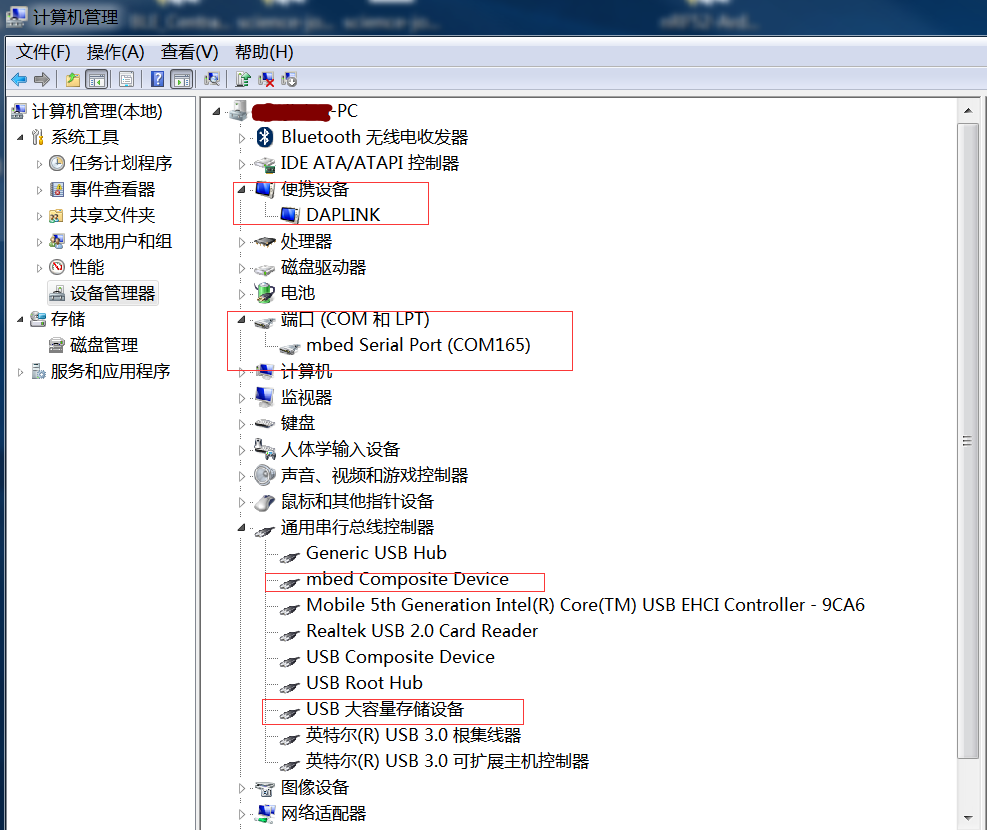
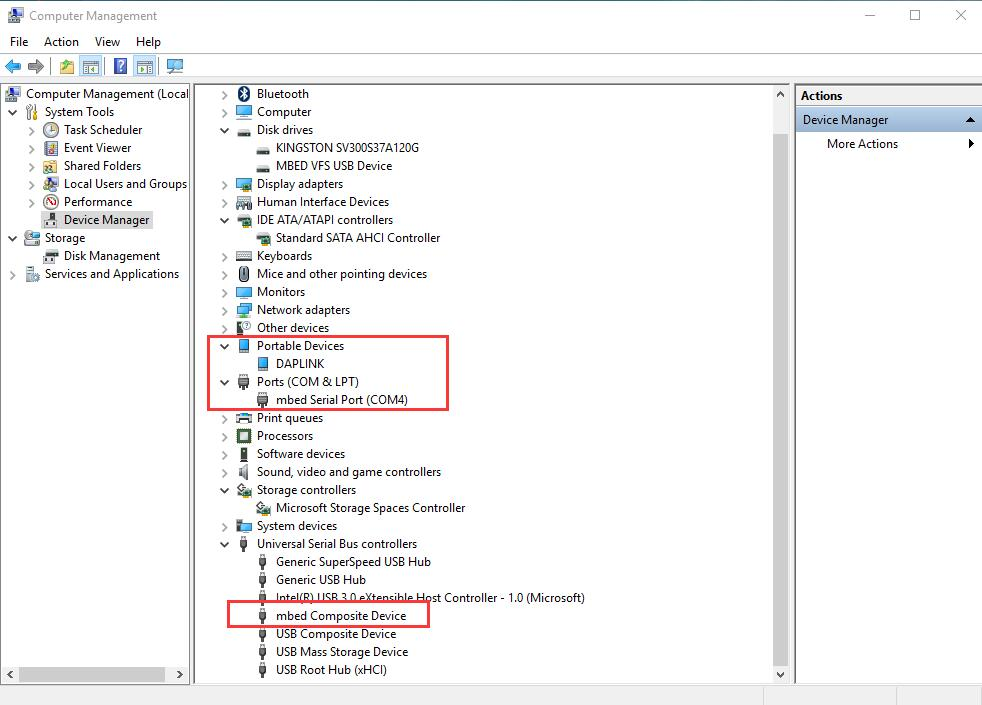
Update a image

Changed region(s): [[0.0, 0.0, 1.0, 1.0], [0.8859, 0.9674, 0.9165, 0.9986], [0.7637, 0.9674, 0.7943, 0.9986]]

diff --git a/docs/DAPLink_User_Guide.md b/docs/DAPLink_User_Guide.md
@@ -26,6 +26,10 @@ For Windows 10, you do not need the driver.
 
 For others, please refer to this [https://developer.mbed.org/handbook/Windows-serial-configuration](https://developer.mbed.org/handbook/Windows-serial-configuration "DAPLink_Windows_Driver")
 
+After installing driver, will see:
+
+![DAPLink_Driver](./images/DAPLink/DAPLink_Driver.png)
+
 ## Update interface firmware
 
 Pressing button and connecting to PC, the driver ***"MAINTENANCE"*** will appeare.Drag the interface firmware(.bin file) into the driver, re-connected to PC.
